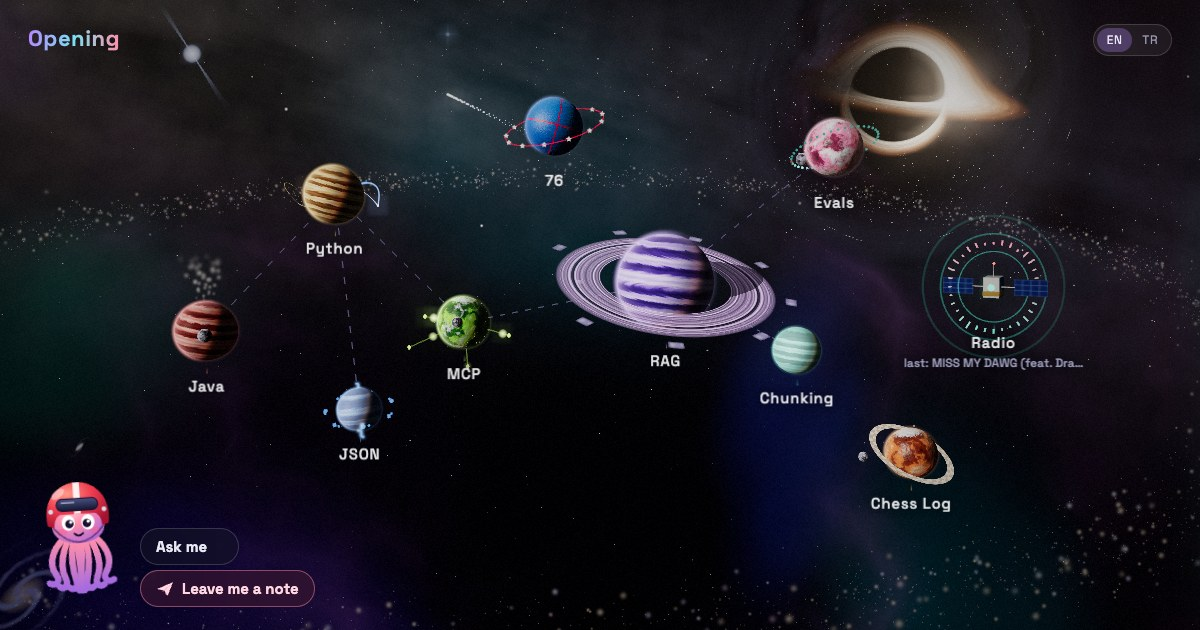
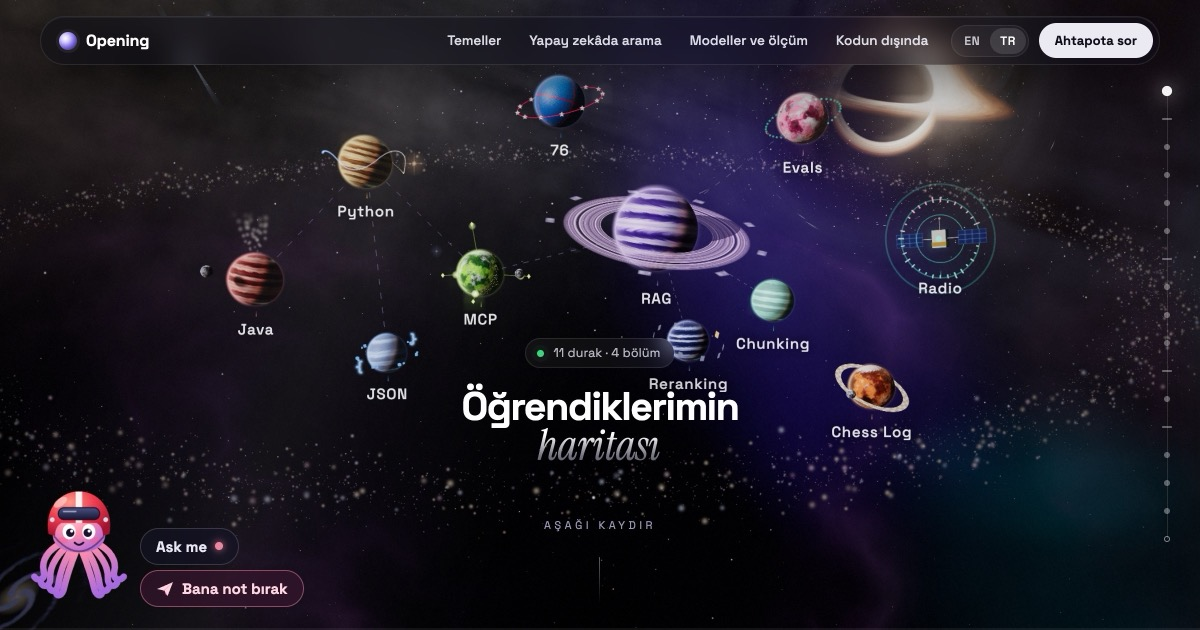
Before sharing: turn note never covers typing, Turkish link preview and new preview image, faster terminal typing, proof line on four phone stops, Radio in the site-purpose answer, small fixes (2D fallback scroll, touch tablets)

diff --git a/index.html b/index.html
@@ -10,8 +10,10 @@
   <meta name="theme-color" content="#06060f">
   <!-- Link previews (WhatsApp, X, Discord...) -->
   <meta property="og:type" content="website">
-  <meta property="og:title" content="Opening">
-  <meta property="og:description" content="Every planet is something I learned. A small solar system on my way to AI engineering.">
+  <meta property="og:title" content="Opening · Öğrendiklerimin haritası">
+  <meta property="og:description" content="Her gezegen, yapay zekâ mühendisliği yolunda öğrendiğim bir şeyi anlatıyor. Köşedeki ahtapota soru da sorabilirsin.">
+  <meta property="og:locale" content="tr_TR">
+  <meta property="og:locale:alternate" content="en_US">
   <meta property="og:url" content="https://ibrahimblbl.github.io/">
   <meta property="og:image" content="https://ibrahimblbl.github.io/og.jpg">
   <meta property="og:image:width" content="1200">
@@ -1069,7 +1071,8 @@
       pointer-events: none;
       transition: opacity 0.2s ease, transform 0.2s ease;
     }
-    @media (hover: hover) { #stop-nav button:hover::after, #stop-nav button:focus-visible::after { opacity: 1; transform: translate(0, -50%); } }
+    @media (hover: hover) { #stop-nav button:hover::after { opacity: 1; transform: translate(0, -50%); } }
+    #stop-nav button:focus-visible::after { opacity: 1; transform: translate(0, -50%); }
     /* The rail: a thin line through the dots that fills in the current planet's color */
     #stop-nav .rail, #stop-nav .rail-fill {
       position: absolute;
@@ -1755,7 +1758,8 @@
       cursor: pointer;
       transition: color 0.25s ease, background 0.25s ease;
     }
-    @media (hover: hover) { #top-links button:hover, #top-links button.on { color: #ffffff; background: rgba(255, 255, 255, 0.06); } }
+    @media (hover: hover) { #top-links button:hover { color: #ffffff; background: rgba(255, 255, 255, 0.06); } }
+    #top-links button.on { color: #ffffff; background: rgba(255, 255, 255, 0.06); }
     #top-links button.on { box-shadow: inset 0 0 0 1px rgba(255, 255, 255, 0.08); }
     #topbar #lang {
       position: static;
@@ -2180,6 +2184,8 @@
       .stop-num { margin-bottom: 8px; font-size: 11.5px; }
       .stop h2 { font-size: clamp(46px, 15vw, 76px); margin-bottom: 12px; }
       .stop-short { max-width: 34ch; font-size: 15.5px; line-height: 1.5; margin-bottom: 18px; }
+      /* the stops whose "for me" line is a result (38 of 40...) show it on phones too, small */
+      .stop-mine.proof { display: block; max-width: 34ch; margin: -6px auto 16px; font-size: 13.5px; line-height: 1.45; }
       .stop-drag { margin-top: 14px; font-size: 10px; color: rgba(236, 236, 248, 0.55); }
       /* The hero: title and hint well above the octopus */
       .hero-copy { bottom: 150px; }
@@ -2193,6 +2199,7 @@
       .stop-short { font-size: 14.5px; line-height: 1.42; margin-bottom: 12px;
         display: -webkit-box; -webkit-line-clamp: 4; -webkit-box-orient: vertical; overflow: hidden; }
       .stop-drag { display: none; }
+      .stop-mine.proof { display: none; } /* short screens: no room */
       .outro-qs { display: none; }
       .outro-title { font-size: clamp(28px, 8vw, 36px); }
     }
@@ -2261,8 +2268,10 @@
     /* A phone turned sideways: the journey is built for an upright screen. The octopus floats in
        and says so in a speech bubble, with a small phone turning upright as the hint. */
     #turn-note { display: none; }
-    @media (orientation: landscape) and (max-height: 500px) and (pointer: coarse) {
-      #turn-note {
+    /* (min-aspect-ratio + not .kb-open: a keyboard also makes the page shorter than it is wide,
+       and the note must never cover the box someone is typing in) */
+    @media (orientation: landscape) and (max-height: 500px) and (min-aspect-ratio: 8/5) and (pointer: coarse) {
+      html:not(.kb-open) #turn-note {
         display: flex; align-items: center; justify-content: center; gap: 6px;
         position: fixed; inset: 0; z-index: 9999; padding: 24px;
         background: radial-gradient(ellipse at 50% 55%, rgba(120, 70, 170, 0.18), transparent 60%), #06060f;
@@ -2617,7 +2626,7 @@
       if (i < text.length) {
         i++;
         terminal.innerHTML = colorize(text.slice(0, i)) + '<span class="cursor"></span>';
-        typingTimer = setTimeout(typeNext, 30);
+        typingTimer = setTimeout(typeNext, 18);
       } else {
         setTimeout(finishIntro, 1000);
       }
@@ -4231,7 +4240,7 @@
     // The example questions have ready answers, written from my posts:
     // clicking them never calls Gemini and doesn't use up the daily limit.
     const ASK_PRESETS = [
-      {"q":"What is this site for?","sources":[],"answer":"Opening is my personal site, and every planet on it is something I learned on my way to AI engineering. I started it in October 2026 because I wanted one place to keep what I learn, and to build something of my own that doesn't exist anywhere else. Instead of a plain list, every topic is a planet you can click: Java, Python, MCP, JSON, RAG, Evals, Chunking and Reranking, plus my hobbies, chess and the 76ers. The octopus in the corner is part of it too: you can ask it about anything I've written here. As I learn new things, new planets will show up.","tr":{"q":"Bu sitenin amacı ne?","answer":"Opening benim kişisel sitem; buradaki her gezegen, yapay zekâ mühendisliğine giden yolda öğrendiğim bir şeyi anlatıyor. Siteye Ekim 2026'da başladım, çünkü öğrendiklerimi tek bir yerde toplamak ve başka hiçbir yerde olmayan, bana ait bir şey yapmak istedim. Düz bir liste yerine her konu tıklayabileceğin bir gezegen: Java, Python, MCP, JSON, RAG, Evals, Chunking ve Reranking, bir de hobilerim satranç ve 76ers. Köşedeki ahtapot da işin parçası: burada yazdığım her şeyi ona sorabilirsin. Yeni şeyler öğrendikçe yeni gezegenler de gelecek."}},
+      {"q":"What is this site for?","sources":[],"answer":"Opening is my personal site, and every planet on it is something I learned on my way to AI engineering. I started it in October 2026 because I wanted one place to keep what I learn, and to build something of my own that doesn't exist anywhere else. Instead of a plain list, every topic is a planet you can click: Java, Python, MCP, JSON, RAG, Evals, Chunking and Reranking, plus my hobbies, chess and the 76ers, and a Radio satellite that shows the music I'm listening to. The octopus in the corner is part of it too: you can ask it about anything I've written here. As I learn new things, new planets will show up.","tr":{"q":"Bu sitenin amacı ne?","answer":"Opening benim kişisel sitem; buradaki her gezegen, yapay zekâ mühendisliğine giden yolda öğrendiğim bir şeyi anlatıyor. Siteye Ekim 2026'da başladım, çünkü öğrendiklerimi tek bir yerde toplamak ve başka hiçbir yerde olmayan, bana ait bir şey yapmak istedim. Düz bir liste yerine her konu tıklayabileceğin bir gezegen: Java, Python, MCP, JSON, RAG, Evals, Chunking ve Reranking, bir de hobilerim satranç ve 76ers, yanlarında da o an ne dinlediğimi gösteren Radio uydusu. Köşedeki ahtapot da işin parçası: burada yazdığım her şeyi ona sorabilirsin. Yeni şeyler öğrendikçe yeni gezegenler de gelecek."}},
       {"q":"How did you build this site, and what helped you?","sources":[],"answer":"I built this site together with Claude Code, Anthropic's AI coding assistant. I decided what I wanted, and we wrote the code step by step while it explained every part to me. The site is plain HTML, CSS and JavaScript in a single file, and the planets live in a 3D scene built with the Three.js library. It's hosted for free on GitHub Pages, and a small Cloudflare Worker answers your questions here and fetches the 76ers scores, with Google's Gemini writing the answers. The whole site costs nothing to run: every service it uses is on a free tier.","tr":{"q":"Bu siteyi nasıl yaptın, nelerden yardım aldın?","answer":"Bu siteyi Anthropic'in yapay zekâ kodlama asistanı Claude Code ile birlikte yaptım. Ne istediğime ben karar verdim, kodu da adım adım birlikte yazdık; her parçayı bana tek tek açıkladı. Site tek bir dosyada sade HTML, CSS ve JavaScript'ten oluşuyor; gezegenler de Three.js kütüphanesiyle kurulmuş 3D bir sahnede duruyor. GitHub Pages'te ücretsiz yayında; burada sorduğun soruları ve 76ers skorlarını küçük bir Cloudflare Worker hallediyor, cevapları da Google'ın Gemini modeli yazıyor. Sitenin hiçbir maliyeti yok: kullandığım her servis ücretsiz katmanda."}},
       {"q":"What did you learn building RAG?","sources":["RAG"],"answer":"RAG (Retrieval-Augmented Generation) means the system first finds the right piece of my notes, then a language model writes the answer based on that piece. I started with a simple version: a keyword search over my notes, connected to Claude as a tool. It found the right note for 6 of 8 easy questions (75%), but only 1 of 6 hard questions that used different words than my notes (17%). The big lesson was that keyword search can't tell when two different words mean the same thing. Embeddings fix that by comparing meaning instead of exact words, and this Ask me box is my first RAG that uses them.","tr":{"q":"RAG kurarken ne öğrendin?","answer":"RAG (Retrieval-Augmented Generation), önce notlarımdan doğru parçayı bulup sonra bir dil modeline cevabı o parçaya göre yazdırmak demek. İşe basit bir sürümle başladım: notlarımda anahtar kelimeyle arama yapan ve Claude'a araç olarak bağlanan küçük bir kod. Kolay 8 sorunun 6'sında doğru notu buldu (%75), ama notlarımdakinden farklı kelimeler kullanan 6 zor sorunun sadece 1'inde (%17). En büyük ders şu oldu: anahtar kelime araması, farklı iki kelimenin aynı şeyi anlattığını anlayamıyor. Embedding'ler kelimelere değil anlama baktığı için bunu çözüyor; bu Ask me kutusu da embedding kullanan ilk RAG'im."}},
       {"q":"Why does AI use Python instead of Java?","sources":["Python","Java"],"answer":"Python doesn't actually do the heavy math in AI; it gives the orders. Training a model means billions of multiplications, and those run in fast C, C++ and CUDA code underneath, so Python is the steering wheel and C is the engine. AI was also built by researchers who needed to test ideas quickly, and a quick experiment takes a few lines in Python, while Java first wants a class, types and a main method. Then a snowball started: TensorFlow and PyTorch came out in Python, so new libraries were written for Python, so newcomers learned Python. Java is still valuable for the big systems that serve AI to users.","tr":{"q":"Yapay zekâda neden Java değil de Python kullanılıyor?","answer":"Aslında yapay zekâdaki ağır hesapları Python yapmıyor, o sadece emir veriyor. Bir modeli eğitmek milyarlarca çarpma demek; bunları altta çalışan hızlı C, C++ ve CUDA kodu yapıyor. Yani Python direksiyon, C motor. Üstelik yapay zekâyı, fikirlerini hızlıca denemek isteyen araştırmacılar geliştirdi: Python'da bir deneme birkaç satır sürerken Java önce bir sınıf, tipler ve main metodu istiyor. Sonra kartopu etkisi başladı: TensorFlow ve PyTorch Python'la çıktı, yeni kütüphaneler de Python için yazıldı, yeni başlayanlar da Python öğrendi. Java ise yapay zekâyı kullanıcılara ulaştıran büyük sistemlerde hâlâ çok değerli."}},
@@ -4663,7 +4672,7 @@
       document.getElementById("journey")?.remove();
       document.getElementById("labels3d")?.remove();
       // Everything else only the 3D journey added: its rail, buttons, fake cursor, film bars...
-      for (const sel of ["#stop-nav", "#rail-bar", "#home-btn", "#cursor-dot", "#cursor-ring", ".trail", ".letterbox", "#ask-beams", "#phone-vignette"]) {
+      for (const sel of ["#stop-nav", "#rail-bar", "#home-btn", "#cursor-dot", "#cursor-ring", ".trail", ".letterbox", "#ask-beams", "#phone-vignette", "#journey-spacer"]) {
         document.querySelectorAll(sel).forEach((el) => el.remove());
       }
       // ...and its page states. Above all the custom cursor: it hides the real one, and the fake
@@ -6774,7 +6783,7 @@
           short.className = "stop-short";
           short.textContent = t === station ? "" : t.short || t.about;
           const mine = document.createElement("p");
-          mine.className = "stop-mine";
+          mine.className = "stop-mine" + (["RAG", "Chunking", "Evals", "MCP"].includes(t.name) ? " proof" : "");
           mine.textContent = t.mine || "";
           const more = document.createElement("button");
           more.className = "stop-more";
